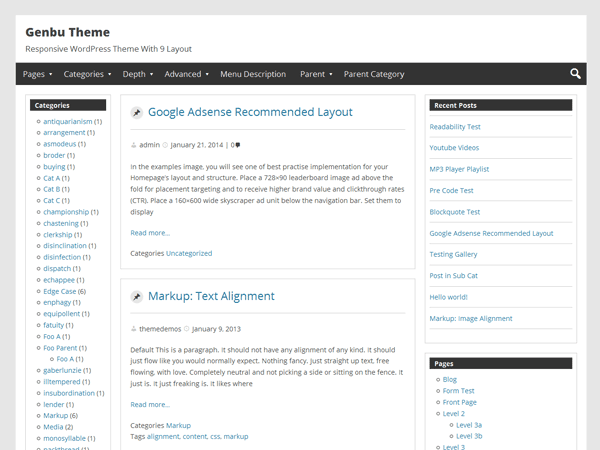
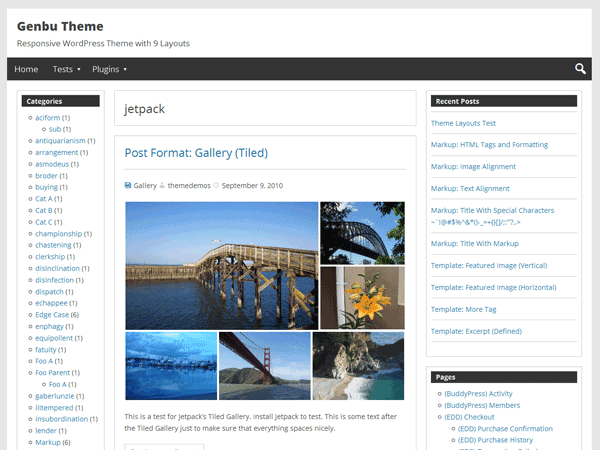
update screenshot. stable.

diff --git a/README.md b/README.md
@@ -63,14 +63,9 @@ This theme is licensed under the [GNU General Public License](http://www.gnu.org
 
 2014 © [Genbu Media](http://genbu.me/). All rights reserved.
 
-## To Do List:
-
-* Better Accessibility Feature
-* Update Screen shot
-
 ## Changelog:
 
-### 0.1.4 (beta)
+### 0.1.4
 * Disable comment error on Page (post type).
 * Add basic support for WooCommerce Plugin.
 * Add basic support for The Events Calendar Plugin.
